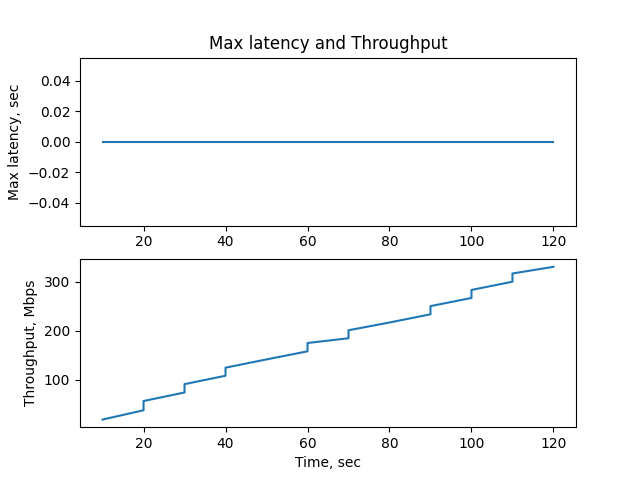
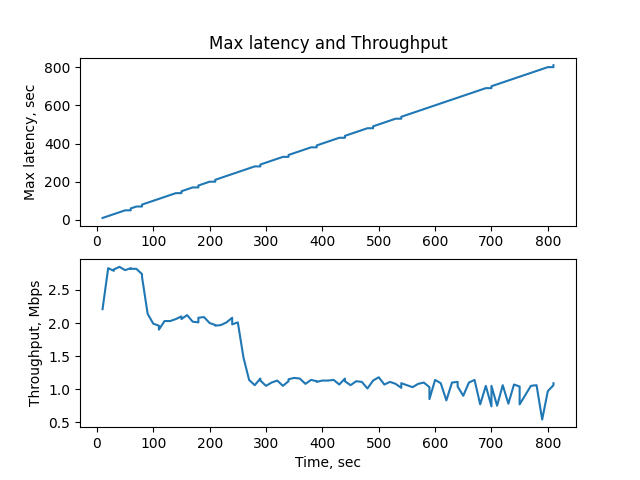
changes

diff --git a/reporter.py b/reporter.py
@@ -25,39 +25,39 @@ def main():
     pg_conn = psycopg2.connect(user=PG_USER, password=PG_PASSWORD, database=PG_DATABASE, host=PG_HOST, port=PG_PORT)
     cur = pg_conn.cursor()
 
-    cur.execute("""SELECT ROUND((MAX(processed) - MIN(created))/1000.0,2) AS total_time_sec,
-                   ROUND(MAX(processed - created)/1000.0,2) AS max_latency_sec,
-                   ROUND(SUM(size/1024.0/1024.0)*8/((MAX(processed) - MIN(created))/1000.0),2) AS throughput_mbps
-                   FROM kafka_throughput_metrics""")
+    cur.execute("""SELECT COUNT(*),
+ROUND((MAX(processed) - MIN(created))/1000.0,2) AS total_time_sec,
+ROUND(MAX(processed - created)/1000.0,2) AS max_latency_sec,
+ROUND(SUM(size/1024.0/1024.0)*8/((MAX(processed) - MIN(processed))/1000.0),2) AS throughput_mbps
+FROM kafka_throughput_metrics""")
 
     row = cur.fetchone()
 
-    print(f"Total time: {row[0]} sec")
-    print(f"Max latency: {row[1]} sec")
-    print(f"Throughput: {row[2]} Mbps")
+    print(f"Total time: {row[1]} sec")
+    print(f"Max latency: {row[2]} sec")
+    print(f"Throughput: {row[3]} Mbps")
 
     with open(f"report_output/{report_file_name}.csv", 'w', newline='') as file:
         file.write(f"total time, max latency, throughput\n")
-        file.write(f"{row[0]},{row[1]},{row[2]}\n")
+        file.write(f"{row[1]},{row[2]},{row[3]}\n")
 
     cur.execute("""WITH t AS (
-                   SELECT id,
-                   (MAX(processed - created) OVER(ORDER BY id ROWS BETWEEN UNBOUNDED PRECEDING AND CURRENT ROW))/1000.0 AS max_latency_sec,
-                   (MAX(processed) OVER(ORDER BY id ROWS BETWEEN UNBOUNDED PRECEDING AND CURRENT ROW)- MIN(created) OVER(ORDER BY id ROWS BETWEEN UNBOUNDED PRECEDING AND CURRENT ROW))/1000.0 AS total_time_sec,
-                   (SUM(size) OVER(ORDER BY id ROWS BETWEEN UNBOUNDED PRECEDING AND CURRENT ROW))/1024.0/1024.0*8
-                   /((MAX(processed - created) OVER(ORDER BY id ROWS BETWEEN UNBOUNDED PRECEDING AND CURRENT ROW))/1000.0) AS throughput_mbps
-                   FROM kafka_throughput_metrics)
-                   ,stats AS (
-                   SELECT MIN(total_time_sec) AS time_min, MAX(total_time_sec) AS time_max
-                   FROM t)
-                   SELECT
-                   width_bucket(total_time_sec, time_min, time_max + 1, 20) AS bucket,
-                   ROUND(MAX(total_time_sec),-1) time_sec,
-                   ROUND(MAX(max_latency_sec),-1) AS max_latency_sec,
-                   ROUND(MAX(throughput_mbps),1) AS throughput_mbps
-                   FROM t, stats
-                   GROUP BY bucket
-                   ORDER BY bucket""")
+SELECT t.*,
+(MAX(processed) OVER(ORDER BY id ROWS BETWEEN UNBOUNDED PRECEDING AND CURRENT ROW)- MIN(created) OVER(ORDER BY id ROWS BETWEEN UNBOUNDED PRECEDING AND CURRENT ROW))/1000.0 AS total_time_sec
+FROM kafka_throughput_metrics t
+)
+,stats AS (
+SELECT MIN(total_time_sec) AS time_min, MAX(total_time_sec) AS time_max
+FROM t
+)
+SELECT
+width_bucket(total_time_sec, time_min, time_max + 1, 100) AS bucket,
+ROUND((MAX(processed) - MIN(created))/1000.0,-1) AS total_time_sec,
+ROUND(MAX(processed - created)/1000.0,-1) AS max_latency_sec,
+ROUND(SUM(size/1024.0/1024.0)*8/((MAX(processed) - MIN(processed))/1000.0),2) AS throughput_mbps
+FROM t, stats
+GROUP BY bucket
+ORDER BY bucket""")
 
     rows = cur.fetchall()
     

diff --git a/consumer.py b/consumer.py
@@ -19,14 +19,14 @@ def consume(kafka_host, kafka_port, kafka_topic, pg_user, pg_password, pg_databa
     for message in consumer:
         print (f"partition={message.partition}, offset={message.offset}, key={message.key}, timestamp={message.timestamp}")
         #print (f"value={message.value}")
-        #time.sleep(1)
+        #time.sleep(0.001)
         created = int(message.value['created'])
         processed = int(datetime.datetime.utcnow().timestamp()*1e3)
         size = sys.getsizeof(json.dumps(message.value))
         cur.execute("INSERT INTO kafka_throughput_metrics (created, processed, size) VALUES (%s, %s, %s)"
                     ,(created, processed, size))
     
-    pg_conn.commit()
+        pg_conn.commit()
     cur.close()
     consumer.close()
 
@@ -69,16 +69,13 @@ def main():
     pg_conn.commit()
     pg_conn.close()
 
-    if CONSUMERS == 1:
-        consume(KAFKA_HOST, KAFKA_PORT, KAFKA_TOPIC, PG_USER, PG_PASSWORD, PG_DATABASE, PG_HOST, PG_PORT)
-    elif CONSUMERS > 1:
-        processes = []
-        for i in range(CONSUMERS):
-            p = multiprocessing.Process(target=consume, args=(KAFKA_HOST, KAFKA_PORT, KAFKA_TOPIC, PG_USER, PG_PASSWORD, PG_DATABASE, PG_HOST, PG_PORT,))
-            processes.append(p)
-            p.start()
-        for p in processes:
-            p.join()
+    processes = []
+    for i in range(CONSUMERS):
+        p = multiprocessing.Process(target=consume, args=(KAFKA_HOST, KAFKA_PORT, KAFKA_TOPIC, PG_USER, PG_PASSWORD, PG_DATABASE, PG_HOST, PG_PORT,))
+        processes.append(p)
+        p.start()
+    for p in processes:
+        p.join()
 
 if __name__ == '__main__':
     main()

diff --git a/producer.py b/producer.py
@@ -31,7 +31,7 @@ def main():
 
     if PRODUCERS == 1:
         produce(DS_FILENAME, KAFKA_HOST, KAFKA_PORT, KAFKA_TOPIC)
-    elif PRODUCERS > 1:
+    elif PRODUCERS == 2:
         filename = os.path.splitext(DS_FILENAME)[0]
         extension = os.path.splitext(DS_FILENAME)[1]
 
